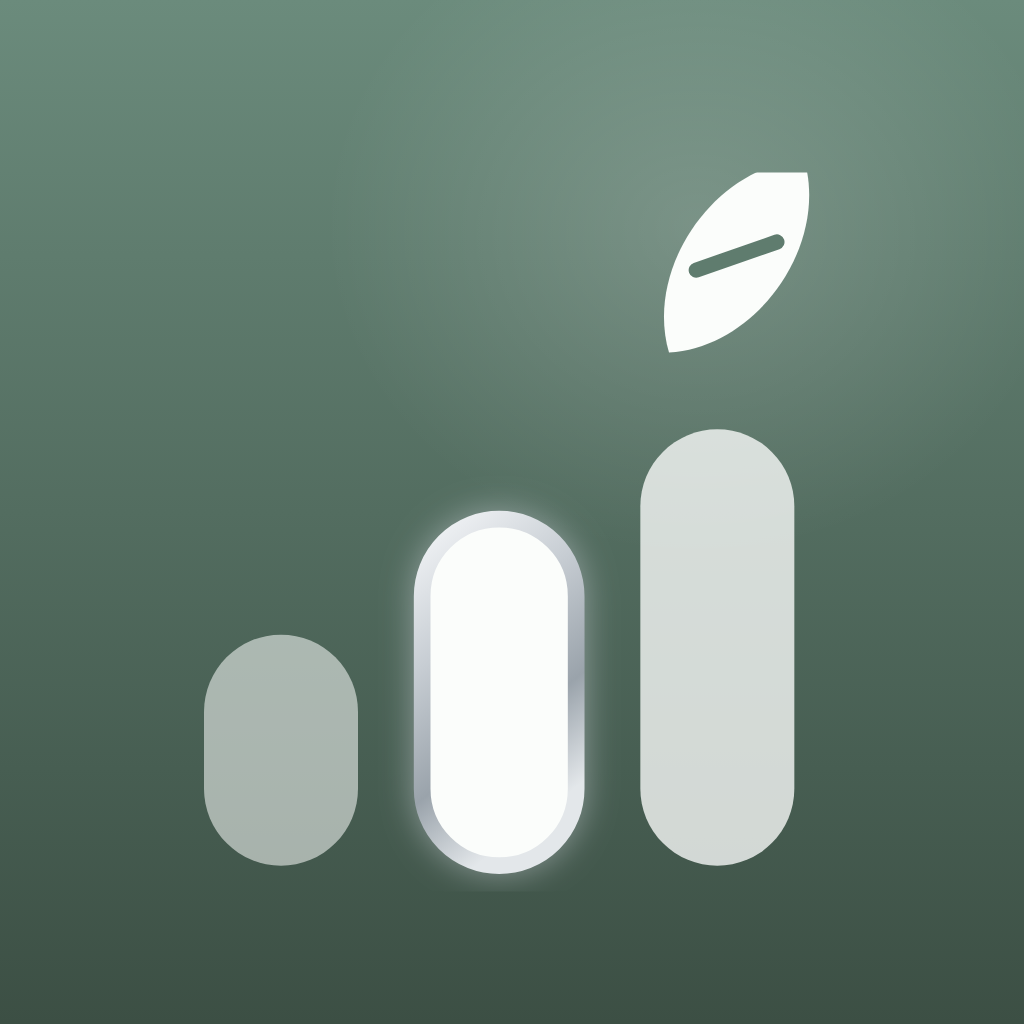
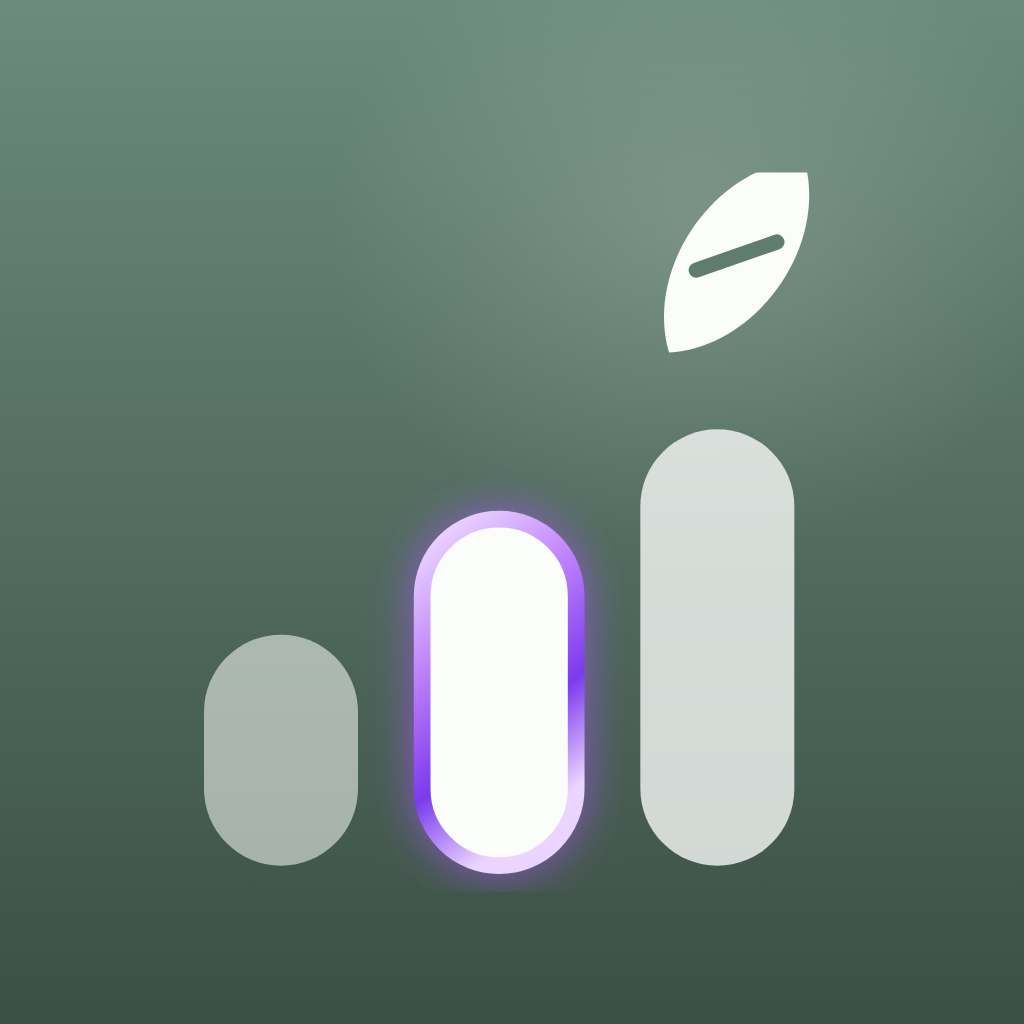
Switch Business analytics accent from silver to a violet neon glow
The cool silver ramp sat too close in lightness to the sage plate and
the card background alike, so at 13px in the tab bar or on the
subscription icon's small bars it read as barely-there. Replaced with
violet: a real complementary contrast against sage rather than a
lighter or darker version of the same neutral, plus an actual glow
(box-shadow / feDropShadow) rather than a flat outline, so it reads as
"lit up" at both sizes. Picked from a side-by-side comparison of six
options (silver boosted, violet, cyan, amber, and a two-tone variant).

--silver-1..4 tokens became --tier2-1..4 plus --tier2-glow, reused by
both the in-app tab/section accent and the middle-tier subscription
icon (subscription-business-1024.html/.png), so the two keep telling
the same tier-ladder story. subscription-plus-1024.png (gold, top
tier) is untouched — regenerated and confirmed byte-identical.

Claude-Session: https://claude.ai/code/session_01HMd74koCQB4PHvPczvsGXA

Changed region(s): [[0.375, 0.4688, 0.5938, 0.875], [0.5312, 0.8125, 0.5625, 0.8438]]

diff --git a/TherapyTracker-web/index.html b/TherapyTracker-web/index.html
@@ -38,9 +38,12 @@ var n=localStorage.getItem('tt_practice');if(n)d.style.setProperty('--appname',J
      falls just under the WCAG large-text threshold, and white on #6A8B7C is only 3.75:1. */
   --gs1:#5C7A6D; --gs2:#3C4F44;
   /* The middle rung of the subscription-image tier ladder (see icon-ideas/groundwork/
-     subscription-plus-1024.html) — a cool metallic ramp, not tied to any palette, the same way
-     that image's gold isn't. Reused in-app for Business analytics, which sits on that rung. */
-  --silver-1:#F5F7F9; --silver-2:#C7CDD3; --silver-3:#9AA3AB; --silver-4:#E3E7EA;}
+     subscription-business-1024.html) — a violet glow, not tied to any palette, the same way that
+     ladder's Plus gold isn't. Reused in-app for Business analytics, which sits on that rung.
+     Was a cool silver ramp; that read as barely-there at 13px and on the subscription icon's own
+     small bars, so it moved to a colour with actual contrast against sage instead of a lighter
+     neutral (see the "Accent Options" comparison this was picked from). */
+  --tier2-1:#F3E4FF; --tier2-2:#C084FC; --tier2-3:#7C3AED; --tier2-4:#E9D5FF; --tier2-glow:rgba(124,58,237,.6);}
 html[data-theme="dark"]{
   color-scheme:dark;
   --bg:#0C1512; --card:#16211E; --soft:#1E2C28; --ink:#E9F2EE; --muted:#93A8A1; --line:#243430;
@@ -367,25 +370,29 @@ td.num,th.num{text-align:right;font-variant-numeric:tabular-nums}
 .seg.fade-l::before,.seg.fade-r::after{opacity:.8}
 .seg button{border:0;background:transparent;padding:8px 13px;border-radius:9px;font-size:13px;font-weight:600;color:var(--muted);white-space:nowrap;cursor:pointer}
 .seg button.on{background:var(--card);color:var(--brand-dark);box-shadow:0 1px 2px var(--ring),0 2px 8px -4px var(--ring)}
-/* The one tab in a bar that costs extra — a shine-silver border marks it out from its plain
-   siblings, the same metal as the middle rung of the subscription-image tier ladder (see
-   icon-ideas/groundwork/subscription-plus-1024.html) rather than a colour invented for this
-   screen alone. A gradient border needs a solid base to clip against, hence the two-layer
-   background — `padding-box` paints the button's own fill, `border-box` paints the ramp into
-   the border itself, so it reads as a metal rim rather than a filled badge (the same language
-   as that image's gold, which is a stroke, not a fill). */
+/* The one tab in a bar that costs extra — a violet glow marks it out from its plain siblings,
+   the same colour as the middle rung of the subscription-image tier ladder (see icon-ideas/
+   groundwork/subscription-business-1024.html) rather than one invented for this screen alone.
+   Was a cool silver ramp; against the sage plate and a white card it sat too close in lightness
+   to read at 13px, so it moved to violet — a genuine complementary contrast against sage that
+   can't wash out the way a neutral metal can, with a real drop-glow rather than a flat outline
+   so it still reads as "lit up" at icon scale. A gradient border needs a solid base to clip
+   against, hence the two-layer background — `padding-box` paints the button's own fill,
+   `border-box` paints the ramp into the border itself. */
 .seg button.premium{position:relative;border:1.5px solid transparent;border-radius:9px;
   background:linear-gradient(var(--card),var(--card)) padding-box,
-    linear-gradient(135deg,var(--silver-1),var(--silver-2) 38%,var(--silver-3) 72%,var(--silver-4)) border-box}
+    linear-gradient(135deg,var(--tier2-1),var(--tier2-2) 38%,var(--tier2-3) 72%,var(--tier2-4)) border-box;
+  box-shadow:0 0 7px var(--tier2-glow)}
 .seg button.premium.on{color:var(--brand-dark);
-  box-shadow:0 1px 2px var(--ring),0 2px 10px -4px rgba(154,163,171,.5)}
-/* The frame around Business analytics itself, not just its tab — a thin shine-silver rule above
+  box-shadow:0 1px 2px var(--ring),0 2px 10px -4px var(--ring),0 0 9px var(--tier2-glow)}
+/* The frame around Business analytics itself, not just its tab — a thin violet-glow rule above
    the content, so the screen it opens onto still reads as the paid-for one once the reader has
    already tapped in. Alternating light/dark stops rather than a plain two-colour fade, for the
-   shimmer a single metal reads as. */
+   shimmer a single glow reads as. */
 #crbody.bizA{position:relative;padding-top:14px}
 #crbody.bizA::before{content:"";position:absolute;top:0;left:2px;right:2px;height:3px;border-radius:3px;
-  background:linear-gradient(90deg,var(--silver-3),var(--silver-1) 25%,var(--silver-4) 50%,var(--silver-1) 75%,var(--silver-3))}
+  background:linear-gradient(90deg,var(--tier2-3),var(--tier2-1) 25%,var(--tier2-4) 50%,var(--tier2-1) 75%,var(--tier2-3));
+  box-shadow:0 0 8px var(--tier2-glow)}
 /* ===== use-of-home year strip =====
    Full-bleed inside its card and sticky under the header (JS sets `top` from the header's real
    height), so the year being edited stays on screen while the cost fields scroll past. */

diff --git a/TherapyTracker-web/icon-ideas/groundwork/subscription-business-1024.html b/TherapyTracker-web/icon-ideas/groundwork/subscription-business-1024.html
@@ -12,10 +12,17 @@
      Plus's own image is untouched, and this one exists alongside it.
 
      THE THREE BARS ARE STILL A TIER LADDER, read the same way in both files: bar 1 is free, bar
-     2 is this tier, bar 3 is Plus. Silver sits on bar 2 alone here — bar 3 is back to the plain
+     2 is this tier, bar 3 is Plus. The glow sits on bar 2 alone here — bar 3 is back to the plain
      fade that bars 1 and 2 share in subscription-plus-1024.html, because gold marks the TOP
      tier, and putting it on bar 3 in this image would claim a rung this subscription doesn't
      sell. Do not brighten bar 3 to "look premium too" — that is what the gold file is for.
+
+     Bar 2 was silver first; at this size, against the same sage plate the gold image sits on, a
+     cool neutral sat too close in lightness to the plate and the bars either side of it to read
+     as anything but faint. Violet is the in-app colour too (see index.html's --tier2-* tokens,
+     picked from the same comparison this was) — a genuine complementary contrast against sage
+     rather than a lighter or darker version of the same neutral, so the two subscription images
+     and the in-app tab stay one visual story.
 
      No text, same reasoning as subscription-plus-1024.html: Apple shows the subscription's own
      name and description beside this image. Plate and bar colours are the same sample as that
@@ -34,11 +41,11 @@
      bars 1 and 3 here, the two rungs this subscription is NOT selling. */
   .b1{fill:#FBFDFB;opacity:.55}
   .b3{fill:#FBFDFB;opacity:.78}
-  /* Silver on the middle rung. A cool ramp against the same sage plate the gold image sits on,
-     so the two subscription images read as one ladder rather than two unrelated products. The
-     stroke straddles the path, so bar 2 ends up a little wider than bars 1 and 3 — the same
-     trick subscription-plus-1024.html uses to draw the eye to the rung being sold. */
-  .b2{fill:#FBFDFB;stroke:url(#silver);stroke-width:2.6}
+  /* Violet on the middle rung — a real complementary contrast against the sage plate, not a
+     lighter/darker neutral. The stroke straddles the path, so bar 2 ends up a little wider than
+     bars 1 and 3 — the same trick subscription-plus-1024.html uses to draw the eye to the rung
+     being sold. */
+  .b2{fill:#FBFDFB;stroke:url(#violet);stroke-width:2.6}
   .leaf{fill:#FBFDFB}
   /* Thin, and short enough to stay well inside the leaf — at 3.4 it read as a slash across a
      lens rather than a vein, and it touched the edges. */
@@ -48,21 +55,23 @@
   <div class="glow"></div>
   <svg viewBox="0 0 120 112" role="img" aria-label="GroundWork — middle tier (name TBC)">
     <defs>
-      <!-- Metallic rather than flat: a single grey is a dull outline, a light-to-deep ramp
-           reads as a rim catching the light — same construction as subscription-plus-1024.html's
-           gold, cool instead of warm. -->
-      <linearGradient id="silver" x1="0" y1="0" x2="0.35" y2="1">
-        <stop offset="0%"   stop-color="#F5F7F9"/>
-        <stop offset="38%"  stop-color="#C7CDD3"/>
-        <stop offset="72%"  stop-color="#9AA3AB"/>
-        <stop offset="100%" stop-color="#E3E7EA"/>
+      <!-- Same light-to-deep ramp construction as subscription-plus-1024.html's gold, violet
+           instead of warm gold — a rim catching the light, not a flat outline. -->
+      <linearGradient id="violet" x1="0" y1="0" x2="0.35" y2="1">
+        <stop offset="0%"   stop-color="#F3E4FF"/>
+        <stop offset="38%"  stop-color="#C084FC"/>
+        <stop offset="72%"  stop-color="#7C3AED"/>
+        <stop offset="100%" stop-color="#E9D5FF"/>
       </linearGradient>
-      <filter id="silverglow" x="-60%" y="-60%" width="220%" height="220%">
-        <feDropShadow dx="0" dy="0" stdDeviation="2.6" flood-color="#C7CDD3" flood-opacity=".55"/>
+      <!-- Stronger than the gold image's own glow (stdDeviation 2.6, opacity .55) — a neon read
+           needs the glow itself to carry more of the effect than a metal's does, or bar 2 reads
+           as merely a coloured outline rather than lit up. -->
+      <filter id="violetglow" x="-70%" y="-70%" width="240%" height="240%">
+        <feDropShadow dx="0" dy="0" stdDeviation="3.4" flood-color="#A855F7" flood-opacity=".7"/>
       </filter>
     </defs>
     <rect class="b1" x="12" y="72" width="24" height="36" rx="12"/>
-    <g filter="url(#silverglow)"><rect class="b2" x="46" y="54" width="24" height="54" rx="12"/></g>
+    <g filter="url(#violetglow)"><rect class="b2" x="46" y="54" width="24" height="54" rx="12"/></g>
     <rect class="b3" x="80" y="40" width="24" height="68" rx="12"/>
     <!-- Lifted and nudged right of the splash mark's own placement: there the leaf all but
          touches the tallest bar, which at this size reads as one shape rather than two. -->

diff --git a/docs/app-store-listing.md b/docs/app-store-listing.md
@@ -164,10 +164,13 @@ tier. A free tier is bar 1, already there and already plain.
 **The middle tier now has its own image**, not a variant of this one:
 `TherapyTracker-web/icon-ideas/groundwork/subscription-business-1024.html` /
 `.png` — same plate, same regeneration command with the basename as an argument
-(`node scripts/render-subscription-image.mjs subscription-business-1024`), silver on bar 2
-instead of gold on bar 3, bar 3 back to the plain fade bar 1 carries. Name TBC — see
-`docs/monetisation.md`. Putting gold on every bar, or silver on more than one, would retire the
-ladder as a way of saying anything.
+(`node scripts/render-subscription-image.mjs subscription-business-1024`), a violet neon glow on
+bar 2 instead of gold on bar 3, bar 3 back to the plain fade bar 1 carries. Violet (not a second
+metal) because a cool silver tried first sat too close in lightness to the sage plate to read at
+this scale — see the in-app `--tier2-*` tokens in `index.html`, picked from the same comparison
+and used for the matching Business analytics accent. Name TBC — see `docs/monetisation.md`.
+Putting gold on every bar, or the glow on more than one, would retire the ladder as a way of
+saying anything.
 
 ## Subscription review screenshot
 
